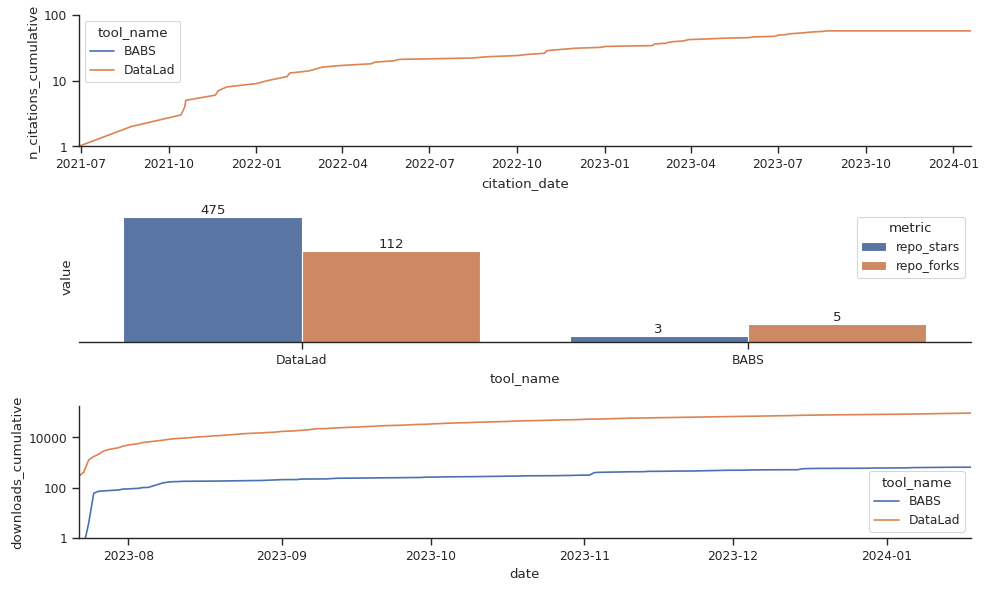
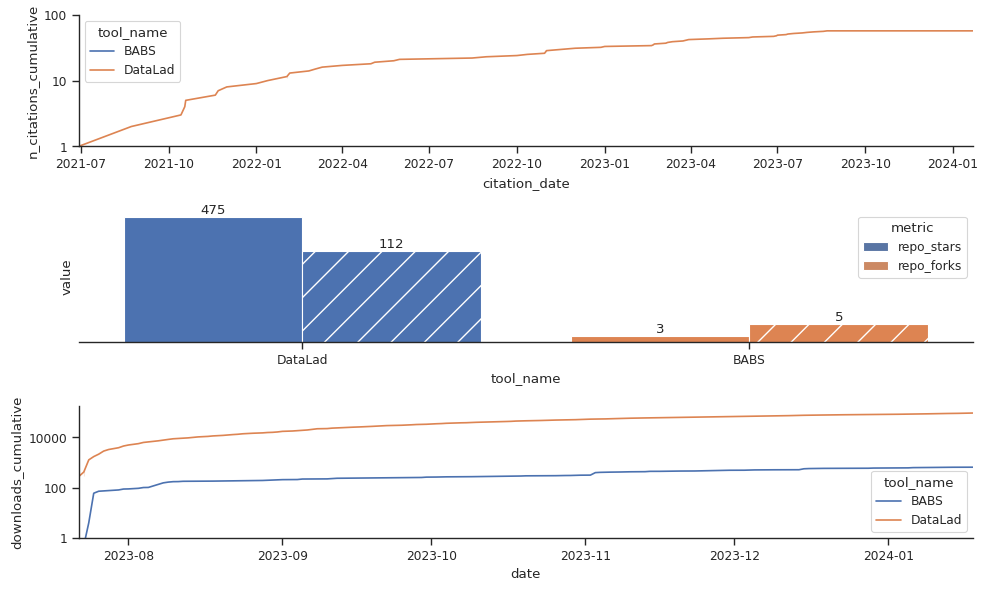
use hatches instead of colours to differentiate repo stars/forks

diff --git a/code/generate_figures.py b/code/generate_figures.py
@@ -98,10 +98,21 @@ def plot_citations(df_metrics: pd.DataFrame, ax=None, date_corrections=None) -> 
 
     return ax
 
-def plot_repo(df_metrics: pd.DataFrame, ax=None) -> plt.Axes:
+def plot_repo(df_metrics: pd.DataFrame, ax=None, hatches=None) -> plt.Axes:
+    if hatches is None:
+        hatches = [None, '/']
+    if len(hatches) != 2:
+        raise ValueError(
+            'hatches must be a list of length 2'
+            ' (one hatch style for each of repo stars and forks)'
+            f', got {hatches}'
+        )
+    
+    df_metrics = df_metrics.sort_values(COL_REPO_STARS, ascending=False)
+    n_tools = len(df_metrics[COL_NAME].unique())
+    
     col_metric = 'metric'
     col_value = 'value'
-    df_metrics = df_metrics.sort_values(COL_REPO_STARS, ascending=False)
     df_repo = pd.melt(
         df_metrics,
         id_vars=[COL_NAME],
@@ -117,6 +128,13 @@ def plot_repo(df_metrics: pd.DataFrame, ax=None) -> plt.Axes:
         ax=ax,
         log_scale=True,
     )
+
+    # set bar colour and hatch style
+    for i_tool, tool in enumerate(ax.get_xticklabels()):
+        for i_patch, patch in enumerate(ax.patches[i_tool:2*n_tools:n_tools]):
+            patch.set_facecolor(sns.color_palette()[i_tool])
+            patch.set_hatch(hatches[i_patch])
+
     return ax
 
 def plot_containers_pulls(df_metrics: pd.DataFrame, ax=None) -> plt.Axes:
@@ -187,8 +205,6 @@ def plot_python_timeseries(df_metrics: pd.DataFrame, ax=None) -> plt.Axes:
     
     df_downloads = pd.DataFrame(data_for_df_downloads).sort_values([COL_NAME, col_date, col_downloads])
     df_downloads[col_downloads_cumulative] = df_downloads.groupby(COL_NAME)[col_downloads].cumsum()
-
-    print(df_downloads.loc[df_downloads[COL_NAME] == 'C-PAC'].head())
 
     ax = plot_timeseries(
         data=df_downloads,
